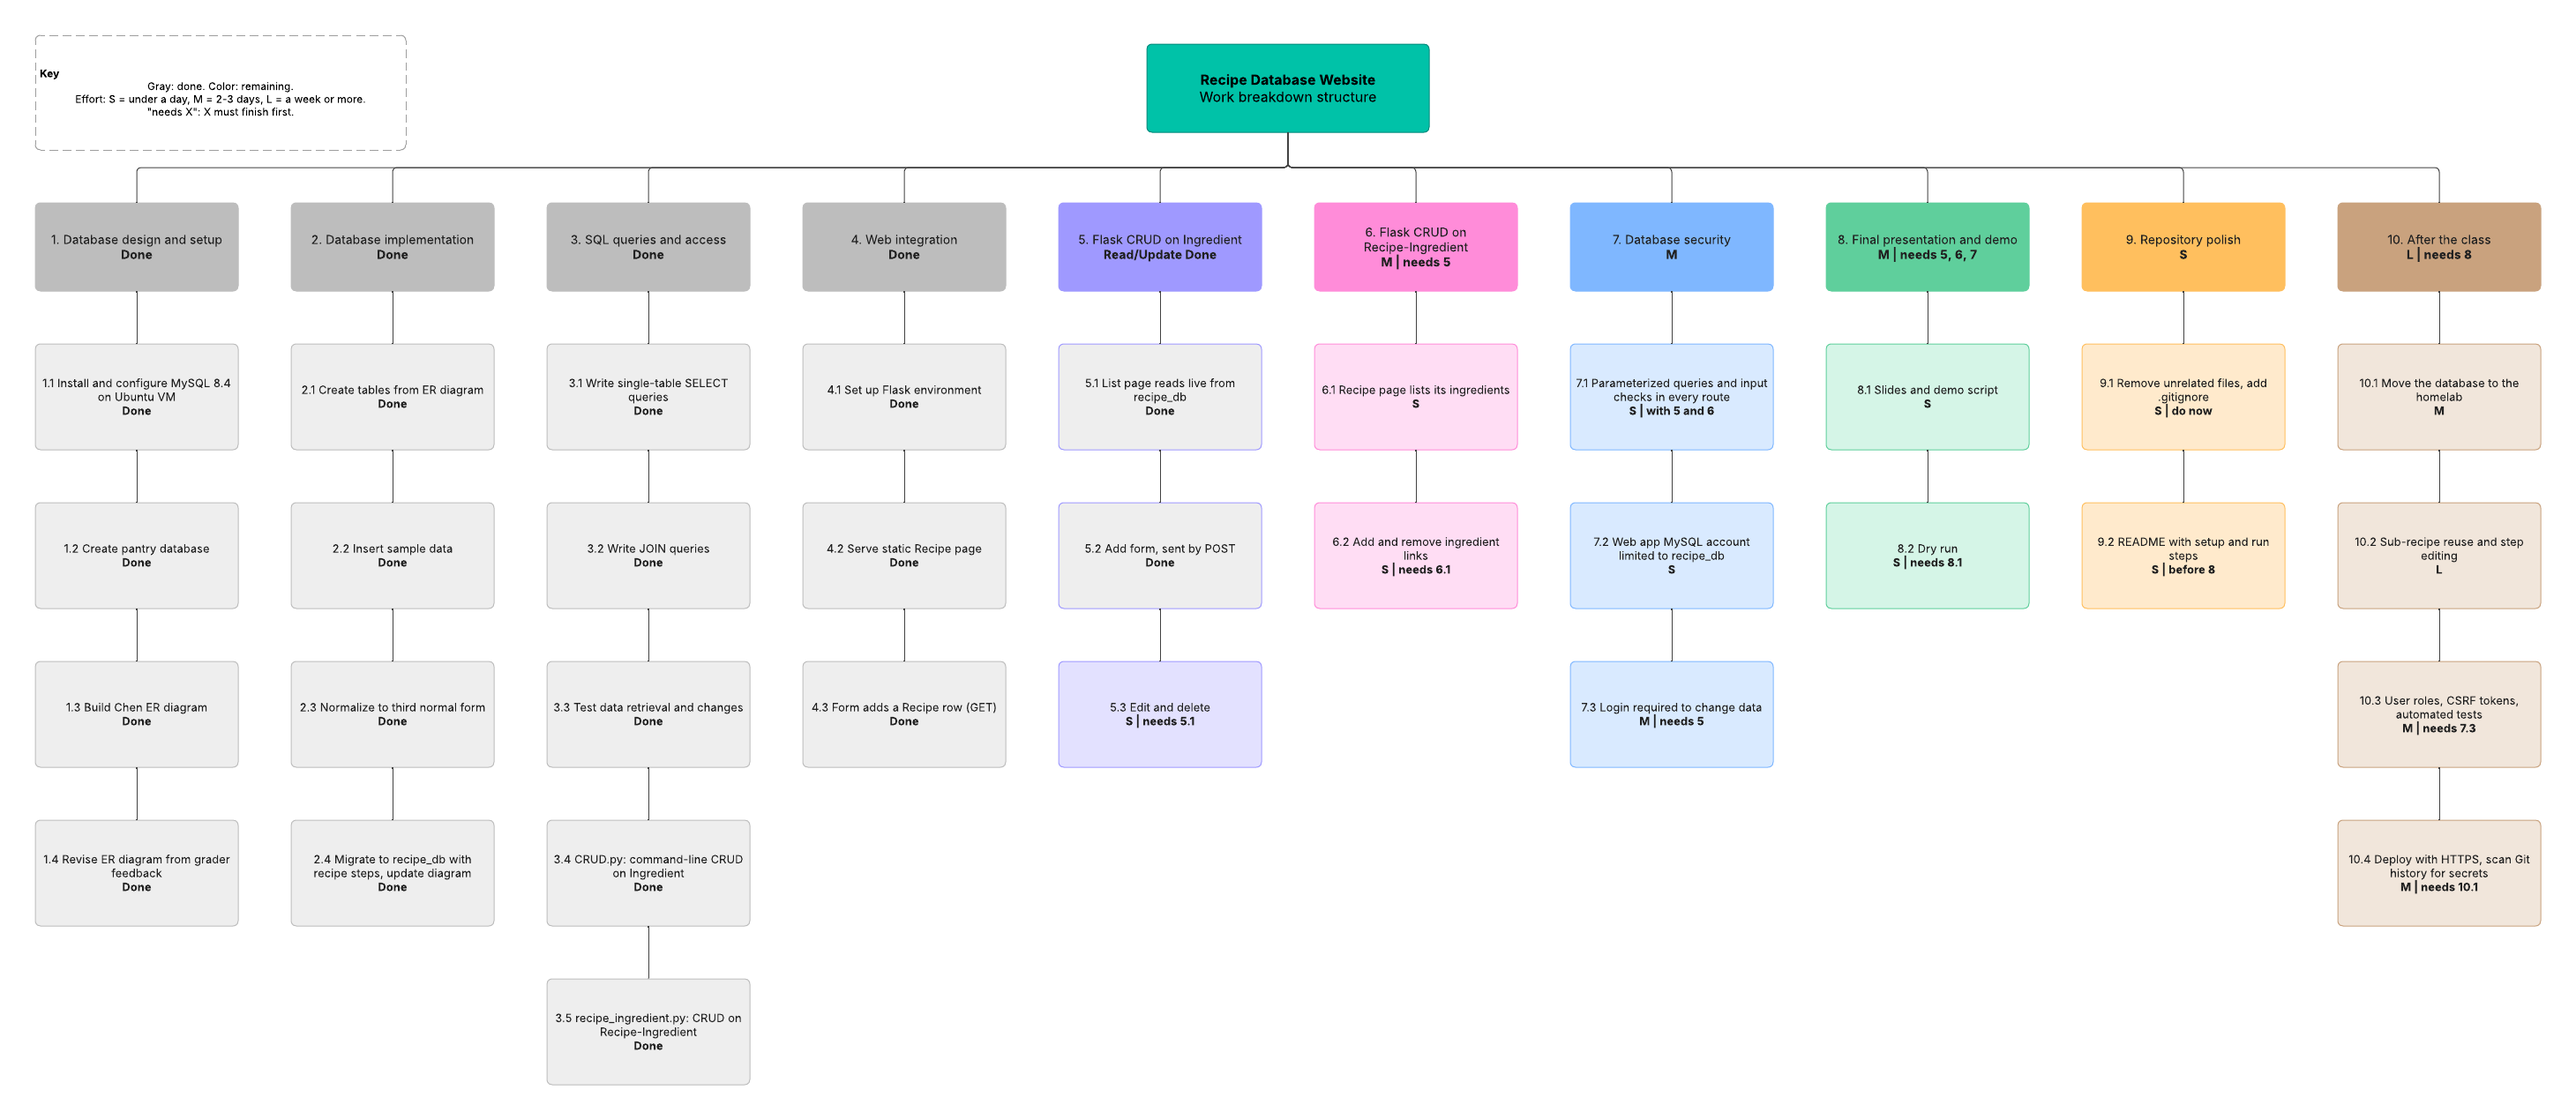
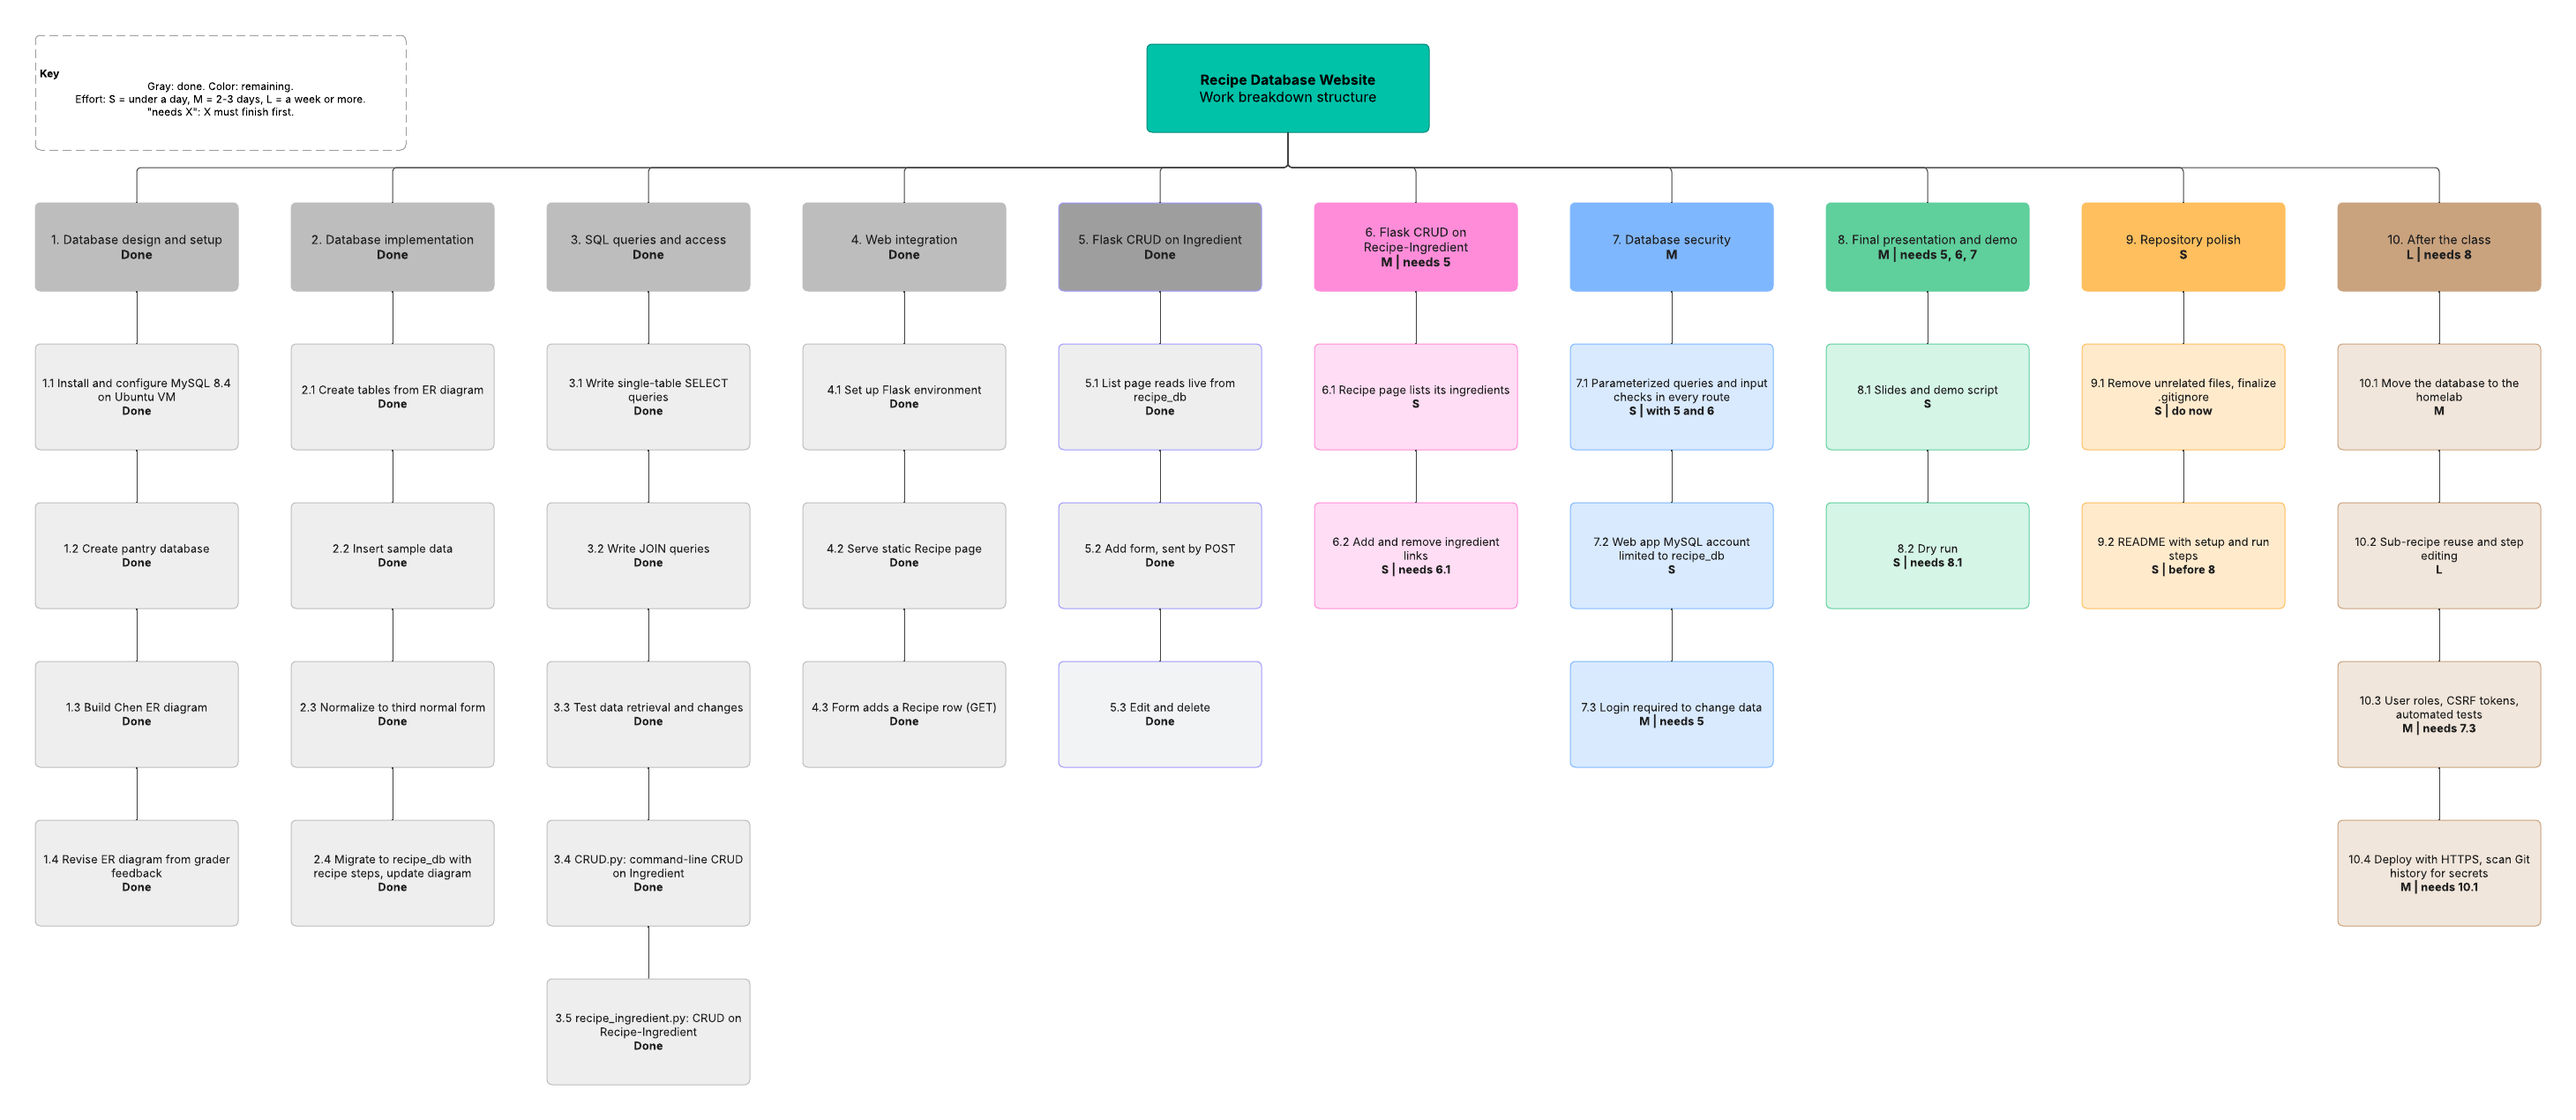
Flask Webapp CRUD functionality on ingredient table

Changed region(s): [[0.4051, 0.1535, 0.4986, 0.2764], [0.8103, 0.3378, 0.8726, 0.3685]]

diff --git a/flask_ingredient/templates/ingredient-update.html b/flask_ingredient/templates/ingredient-update.html
@@ -1,0 +1,25 @@
+w{% extends 'base.html' %}
+
+{% block title %}Update Ingredient{% endblock %}
+
+{% block header %}
+Updating Ingredient {{id}}
+{% endblock %}
+
+{% block content %}
+
+<h2>Enter the new values here</h2>
+<form action="">
+  <input type="hidden" name="id" value="{{id}}">
+  Name: <input type="text" name="name" value="{{existingName}}" /><br />
+  Category: <input type="text" name="category" value="{{existingCategory}}" /><br />
+  Base Unit:
+  <select name="base_unit">
+    <option value="g" {% if existingUnit == 'g' %}selected{% endif %}>weight (g)</option>
+    <option value="ml" {% if existingUnit == 'ml' %}selected{% endif %}>volume (ml)</option>
+  </select><br />
+  Contains Gluten: <input type="checkbox" name="contains_gluten" value="1" {% if existingGluten %}checked{% endif %} /><br />
+  <input type="submit" value="Submit">
+</form>
+<a href="/">Return to list</a>
+{% endblock %}

diff --git a/flask_ingredient/templates/ingredient-list.html b/flask_ingredient/templates/ingredient-list.html
@@ -15,6 +15,7 @@ Recipe Database Ingredients
     <th>Category</th>
     <th>Base Unit</th>
     <th>Contains Gluten</th>
+    <th>Maintenance</th>
   </tr>
   {% for row in collection %}
   <tr>
@@ -23,6 +24,10 @@ Recipe Database Ingredients
     <td>{{row[2]}}</td>
     <td>{{row[3]}}</td>
     <td>{{ 'Yes' if row[4] else 'No' }}</td>
+    <td>
+      <a href="?delete=true&id={{row[0]}}">Delete</a><br />
+      <a href="/updateIngredient?id={{row[0]}}">Change</a>
+    </td>
   </tr>
   {% endfor %}
 </table>

diff --git a/flask_ingredient/ingredient_app.py b/flask_ingredient/ingredient_app.py
@@ -33,7 +33,12 @@ def showIngredients():
                 (name, category, baseUnit, containsGluten),
             )
             connection.commit()
-            # Reload without the GET variables so a page refresh doesn't insert again
+            # Reload without the GET variables so a page refresh doesn't run it again
+            return redirect(url_for("showIngredients"))
+        elif request.args.get("delete") == "true":
+            deleteId = request.args.get("id")
+            cursor.execute("delete from Ingredient where ingredient_id=%s", (deleteId,))
+            connection.commit()
             return redirect(url_for("showIngredients"))
 
         cursor.execute(
@@ -43,6 +48,46 @@ def showIngredients():
         rows = cursor.fetchall()
 
     return render_template("ingredient-list.html", collection=rows)
+
+
+@app.route("/updateIngredient")
+def updateIngredient():
+    ingredientId = request.args.get("id")
+    name = request.args.get("name")
+    category = request.args.get("category")
+    baseUnit = request.args.get("base_unit")
+    containsGluten = 1 if request.args.get("contains_gluten") else 0
+    if ingredientId is None:
+        return "Error, id not specified"
+
+    with getConnection() as connection:
+        cursor = connection.cursor()
+
+        if name is not None and category is not None and baseUnit is not None:
+            cursor.execute(
+                "update Ingredient set name=%s, category=%s, base_unit=%s, contains_gluten=%s "
+                "where ingredient_id=%s",
+                (name, category, baseUnit, containsGluten, ingredientId),
+            )
+            connection.commit()
+            return redirect(url_for("showIngredients"))
+
+        # No new values yet, so show the form filled with the current row
+        cursor.execute(
+            "select name, category, base_unit, contains_gluten "
+            "from Ingredient where ingredient_id=%s",
+            (ingredientId,),
+        )
+        existingName, existingCategory, existingUnit, existingGluten = cursor.fetchone()
+
+    return render_template(
+        "ingredient-update.html",
+        id=ingredientId,
+        existingName=existingName,
+        existingCategory=existingCategory,
+        existingUnit=existingUnit,
+        existingGluten=existingGluten,
+    )
 
 
 if __name__ == "__main__":
